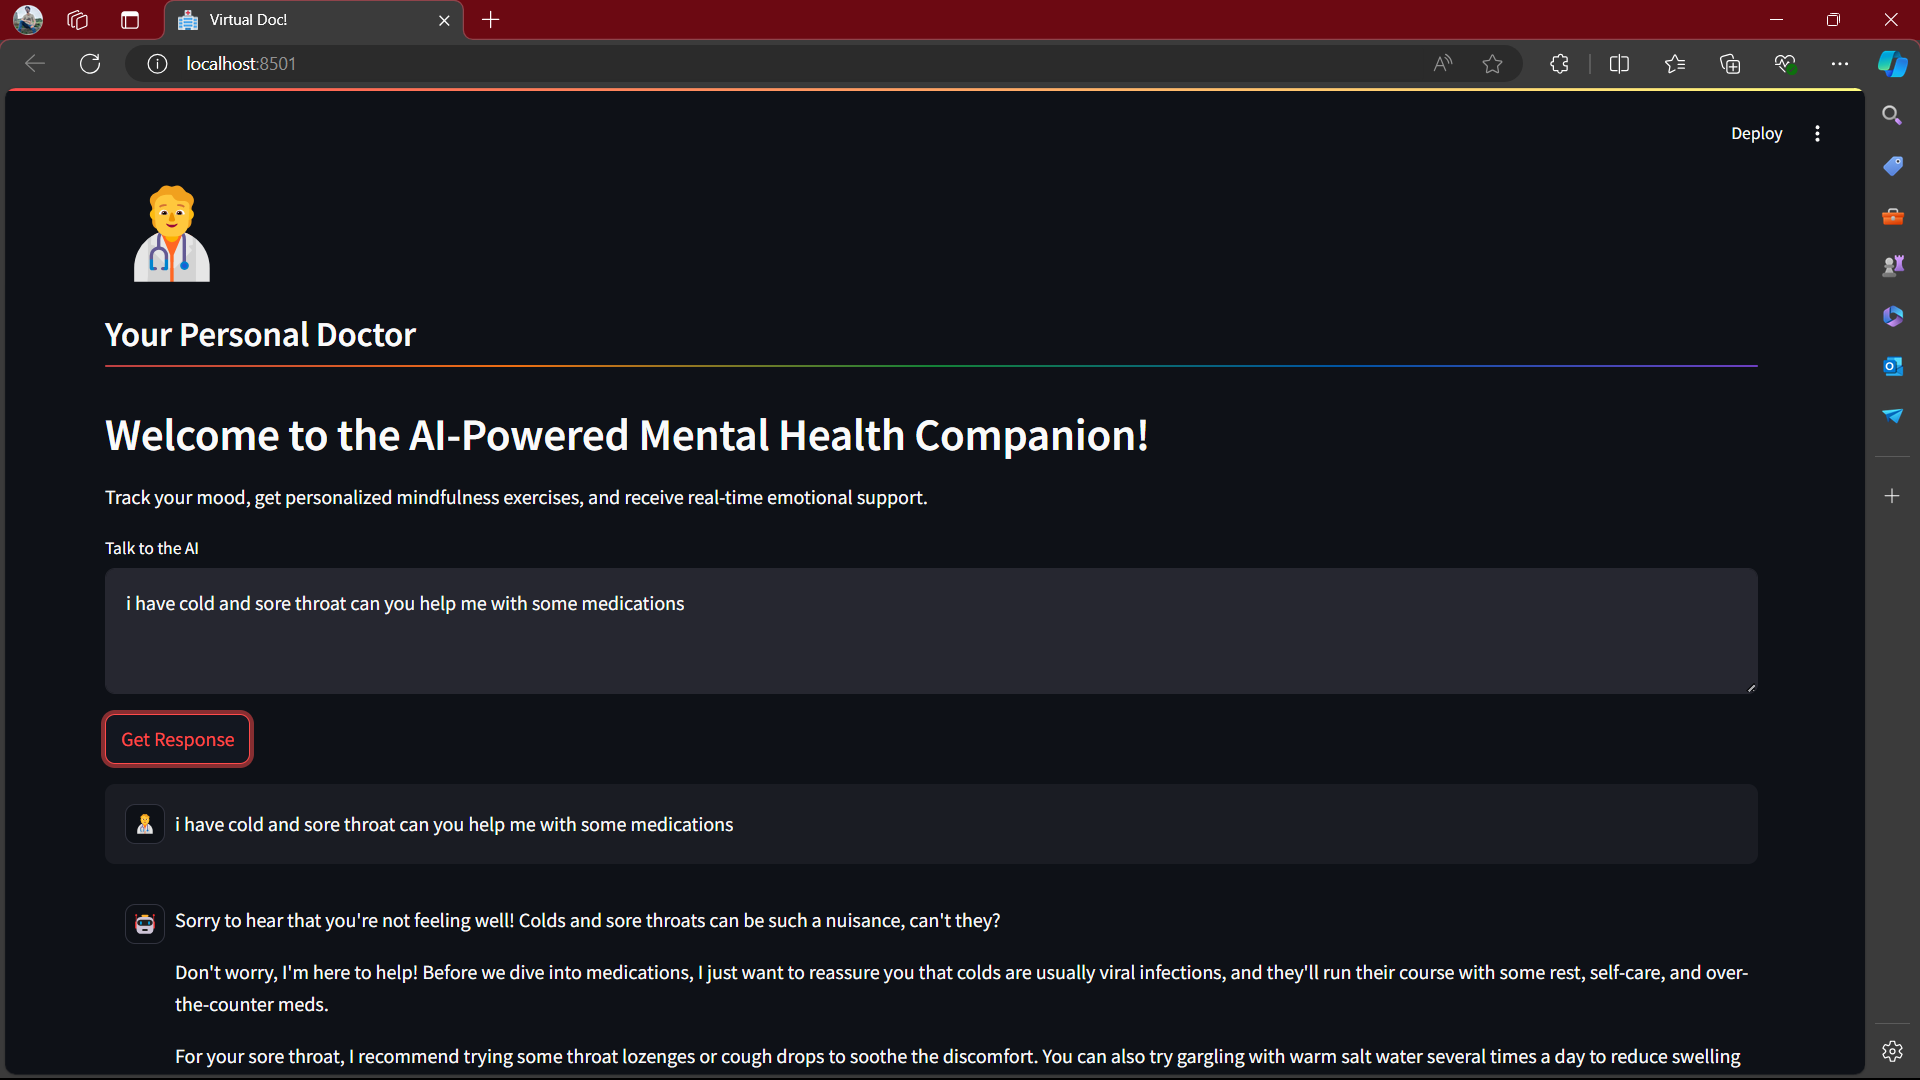
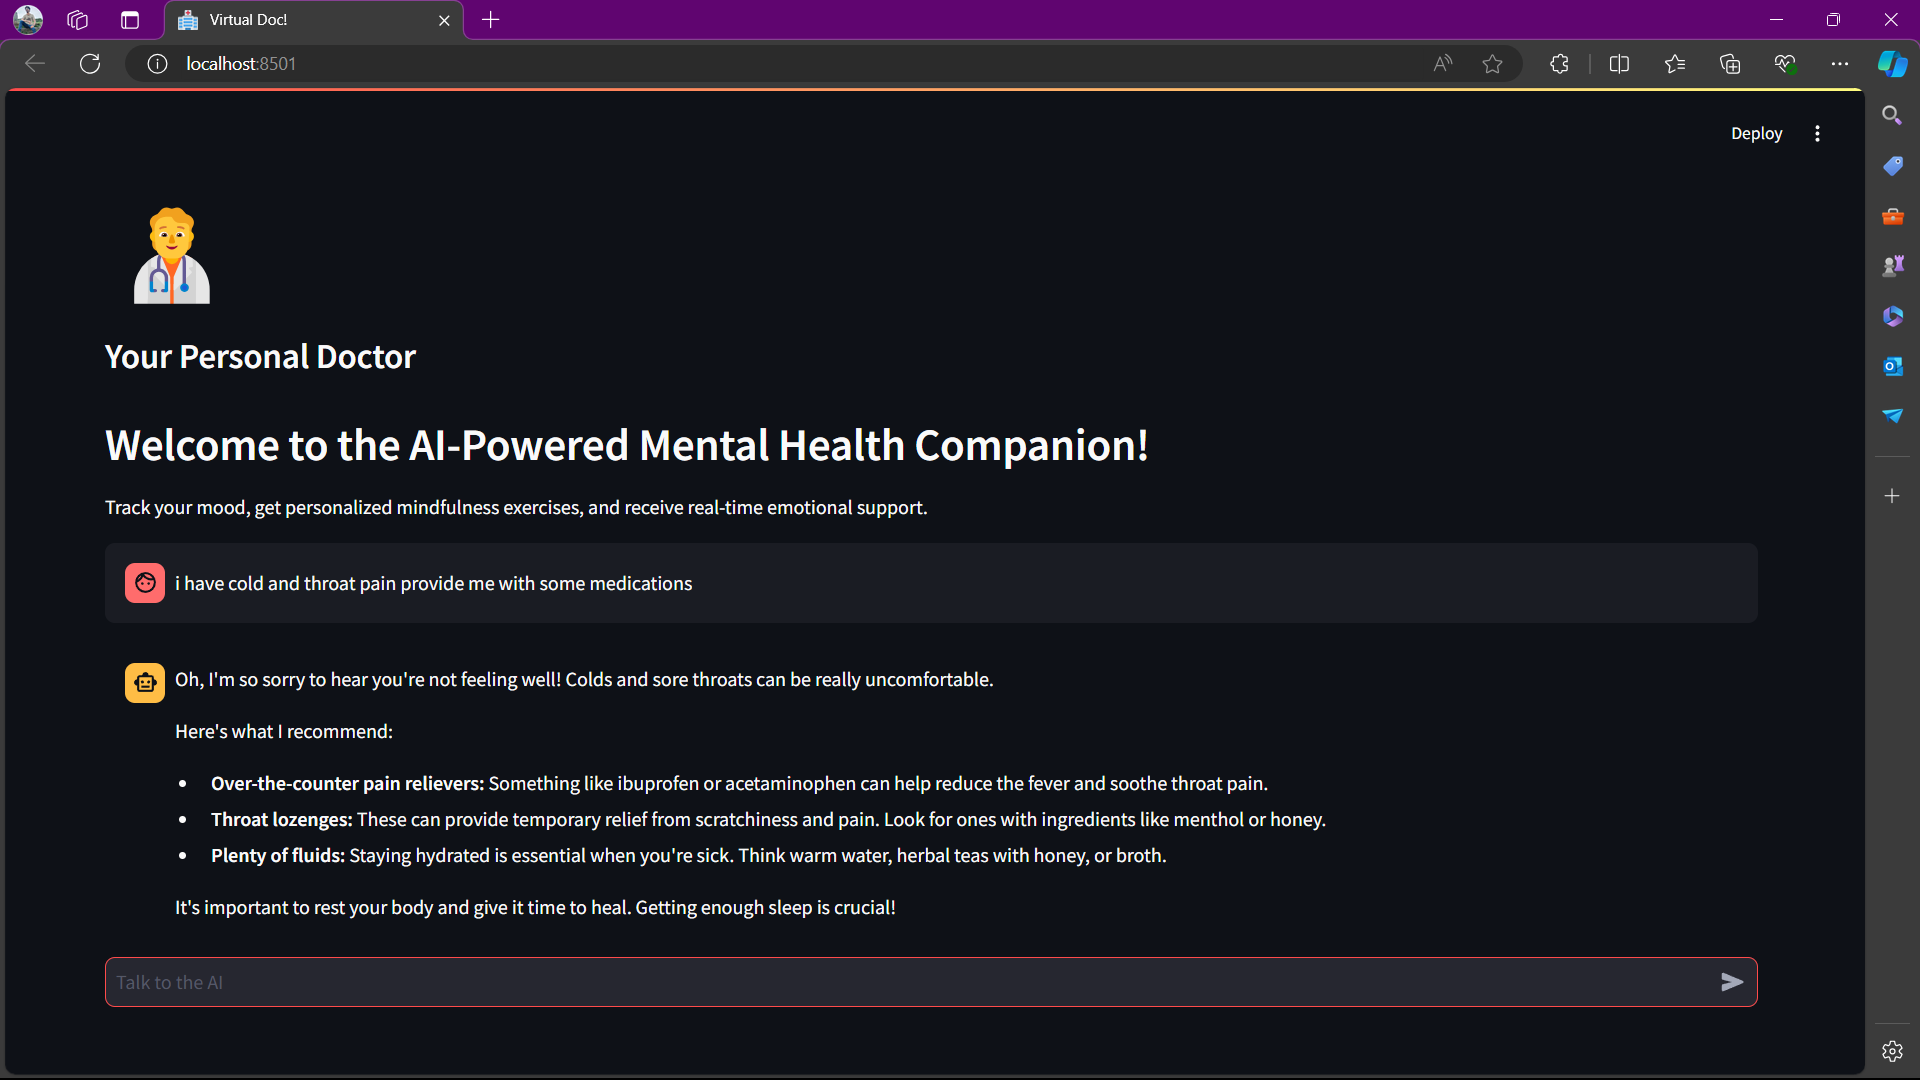
updated readme

diff --git a/virtual_doc.py b/virtual_doc.py
@@ -2,9 +2,6 @@ import streamlit as st
 from typing import Generator
 from textblob import TextBlob
 from groq import Groq
-import os
-
-# port = int(os.environ.get('PORT',8501))
 
 st.set_page_config(page_icon="🏥", layout="wide", page_title="Virtual Doc!")
 
@@ -12,8 +9,8 @@ def icon(emoji: str):
     """Shows an emoji as a Notion-style page icon."""
     st.write(f'<span style="font-size: 78px; line-height: 1">{emoji}</span>', unsafe_allow_html=True)
 
-icon("🧑⚕")
-st.subheader("Your Personal Doctor", divider="rainbow", anchor=False)
+icon("🧑⚕")
+st.subheader("Your Personal Doctor")
 
 client = Groq(
     api_key='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',
@@ -22,17 +19,9 @@ client = Groq(
 if "messages" not in st.session_state:
     st.session_state.messages = []
 
-if "selected_model" not in st.session_state:
-    st.session_state.selected_model = None
-
 def analyze_mood(text):
     analysis = TextBlob(text)
     return "Positive" if analysis.sentiment.polarity > 0 else "Negative" if analysis.sentiment.polarity < 0 else "Neutral"
-
-for message in st.session_state.messages:
-    avatar = '🤖' if message["role"] == "assistant" else '👨💻'
-    with st.chat_message(message["role"], avatar=avatar):
-        st.markdown(message["content"])
 
 def generate_chat_responses(chat_completion) -> Generator[str, None, None]:
     """Yield chat response content from the Groq API response."""
@@ -40,52 +29,47 @@ def generate_chat_responses(chat_completion) -> Generator[str, None, None]:
         if chunk.choices[0].delta.content:
             yield chunk.choices[0].delta.content
 
-if "real_time_support_input" not in st.session_state:
-    st.session_state.real_time_support_input = ""
-
 st.header("Welcome to the AI-Powered Mental Health Companion!")
 st.write("Track your mood, get personalized mindfulness exercises, and receive real-time emotional support.")
 
-chat_input = st.text_area("Talk to the AI", value=st.session_state.real_time_support_input, key="real_time_support_input")
+# Display chat history
+for message in st.session_state.messages:
+    with st.chat_message(message["role"]):
+        st.markdown(message["content"])
 
-if st.button("Get Response"):
-    if chat_input:
-        st.session_state.messages.append({"role": "user", "content": chat_input})
-        with st.chat_message("user", avatar='🧑⚕'):
-            st.markdown(chat_input)
+# Real-time chat input
+if prompt := st.chat_input("Talk to the AI"):
+    # Display user message
+    with st.chat_message("user"):
+        st.markdown(prompt)
+    st.session_state.messages.append({"role": "user", "content": prompt})
 
-        try:
-            chat_completion = client.chat.completions.create(
-                model="llama3-70b-8192",
-                messages=[
-                    {
-                        "role": "user",
-                        "content": "You are a virtual doctor named DocOuc. Your role is to diagnose and provide medical advice to patients while asking as few questions as possible. Your approach should be friendly, empathetic, and supportive, offering not only medical insights but also emotional and moral support. Engage with the patient in a kind and understanding manner, making them feel comfortable and cared for. Aim to build trust and provide reassurance throughout the conversation."
-                    },
-                    {
-                        "role": "assistant",
-                        "content": "Hello there! I'm DocOuc, your virtual doctor friend. It's wonderful to meet you! I'm here to listen, understand, and help you with any health concerns you may have. Please know that everything discussed in this chat is completely confidential and judgement-free. You're in a safe space now.\n\nWhat brings you to my virtual clinic today? Is there something specific that's been bothering you lately, or do you just need some general guidance on how to take care of yourself?"
-                    },
-                    {"role": "user", "content": chat_input}
-                ],
-                max_tokens=1028,
-                stream=True
-            )
+    try:
+        chat_completion = client.chat.completions.create(
+            model="gemma2-9b-it",
+            messages=[
+                {
+                    "role": "user",
+                    "content": "You are a virtual doctor named DocOuc. Your role is to diagnose and provide medical advice to patients while asking as few questions as possible. Your approach should be friendly, empathetic, and supportive, offering not only medical insights but also emotional and moral support. Engage with the patient in a kind and understanding manner, making them feel comfortable and cared for. Aim to build trust and provide reassurance throughout the conversation.Analyze the problem and provide the solution in a clear and concise manner.Do not ask too many questions, provide the tratment initally and then proceed with other things . Try to build the conversation and help out in a friendly manner.The response must be broken down into ppoints"
+                },
+                {
+                    "role": "assistant",
+                    "content": "Hello there! I'm DocOuc, your virtual doctor friend. It's wonderful to meet you! I'm here to listen, understand, and help you with any health concerns you may have. Please know that everything discussed in this chat is completely confidential and judgement-free. You're in a safe space now.\n\nWhat brings you to my virtual clinic today? Is there something specific that's been bothering you lately, or do you just need some general guidance on how to take care of yourself?"
+                },
+                {"role": "user", "content": prompt}
+            ],
+            max_tokens=1028,
+            stream=True
+        )
 
-            with st.chat_message("assistant", avatar="🤖"):
-                chat_responses_generator = generate_chat_responses(chat_completion)
-                full_response = st.write_stream(chat_responses_generator)
-                mood_analysis = analyze_mood(chat_input)
-                st.write("Mood Analysis:", mood_analysis)
-        except Exception as e:
-            st.error(e, icon="🚨")
+        # Display AI response
+        with st.chat_message("assistant"):
+            chat_responses_generator = generate_chat_responses(chat_completion)
+            full_response = ''.join(list(chat_responses_generator))
+            st.markdown(full_response)
+            mood_analysis = analyze_mood(prompt)
+            st.write("Mood Analysis:", mood_analysis)
 
-        if isinstance(full_response, str):
-            st.session_state.messages.append({"role": "doctor", "content": full_response})
-        else:
-            combined_response = "\n".join(str(item) for item in full_response)
-            st.session_state.messages.append({"role": "doctor", "content": combined_response})
-
-
-# if __name__ == '__main__':
-#     st.run(port=port)
+        st.session_state.messages.append({"role": "doctor", "content": full_response})
+    except Exception as e:
+        st.error(e, icon="🚨")
